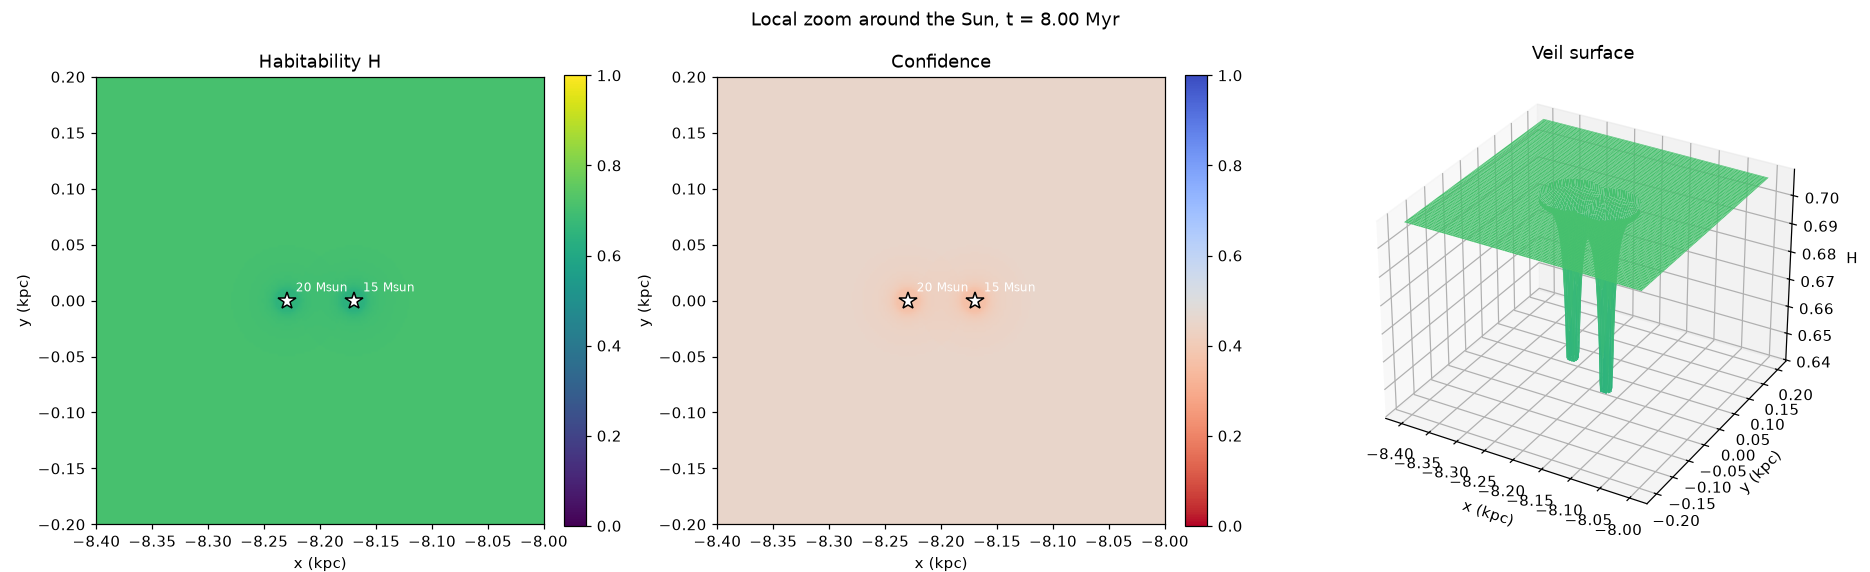
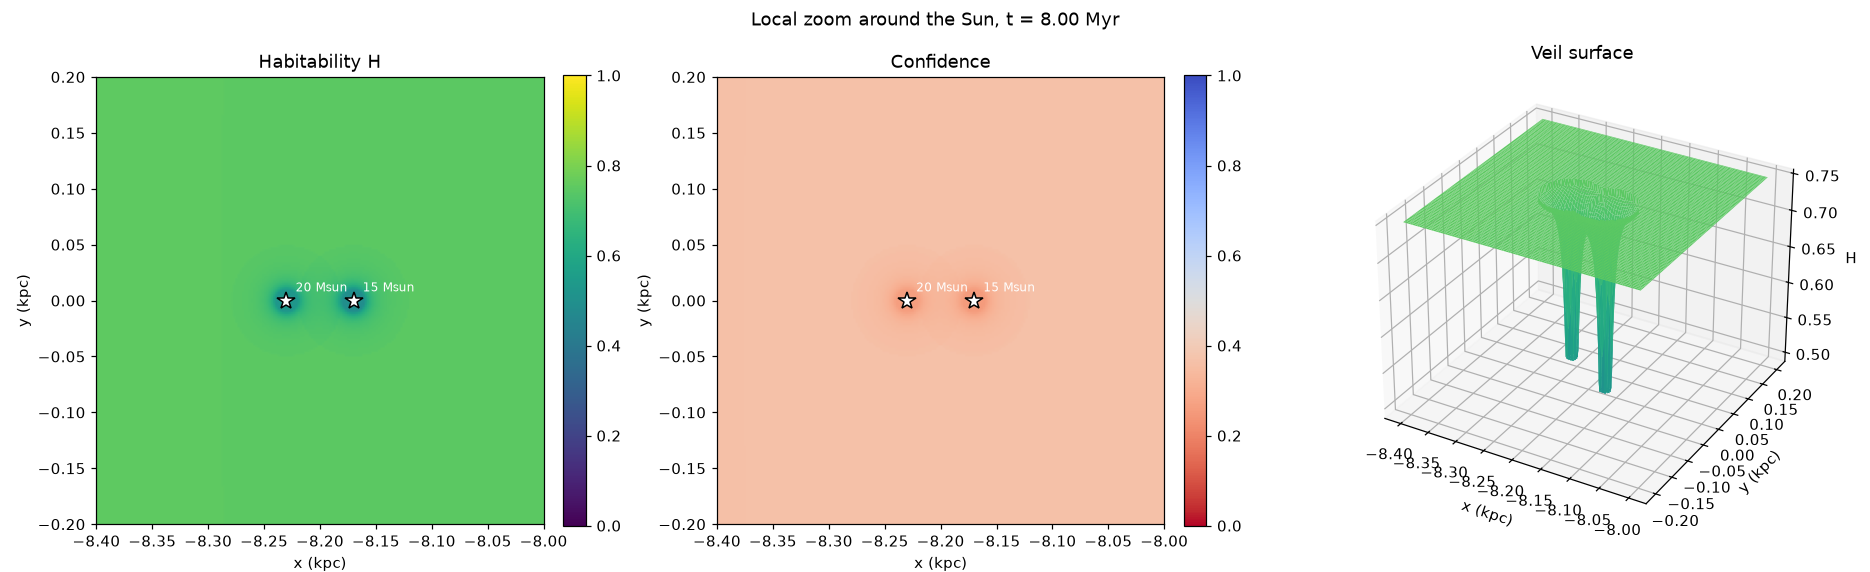
Record Phase 0 completion in CHANGELOG and README
Refresh the README screenshots with calibrated values, document
--project-hazards and per-field provenance, restate the known limits,
and add the Phase 0 engine to the changelog (still Unreleased pending the
versioning decision).

diff --git a/README.md b/README.md
@@ -57,7 +57,7 @@ The repository is organized as layers that build on one another:
 
 The project is in active design, **fully specified ahead of implementation** — the model, data schema, equation set, and build plan exist before the first line of engine code, by intent.
 
-- **Phase 0 — Prove the model.** Python proof-of-concept: the field math, the coordinate pipeline, and a first time-evolving hazard. *(Built — see [Running Phase 0](#running-phase-0); tuning in progress.)*
+- **Phase 0 — Prove the model.** Python proof-of-concept: the field math, the coordinate pipeline, and a first time-evolving hazard. *(Built and calibrated — see [Running Phase 0](#running-phase-0).)*
 - **Phase 1 — Interactive 3D.** A real rotatable, zoomable, clickable browser application.
 - **Phase 2 — The fourth dimension.** A fully populated galaxy you can scrub through time.
 - **Phase 3 — Real data & honest provenance.** Survey data at scale, with observed-vs-modeled shading.
@@ -73,12 +73,13 @@ Requires Python 3.11+.
 python -m venv .venv && source .venv/bin/activate
 pip install -r requirements.txt && pip install -e '.[dev,phase0]'
 python src/main.py          # or: python -m veil   (--help for options)
+python src/main.py --project-hazards   # local view with every nearby hazard projected onto the plane
 pytest                      # unit + Phase 0 acceptance tests
 ```
 
 The first run downloads the HYG v4.1 star catalog and the NASA Exoplanet Archive table into `data/raw/` (with retrieval dates in `data/raw/retrieved.json`). Output goes to `output/phase0/`: `veil.html`, a self-contained interactive page with a rotatable veil, hoverable entities and a time slider, plus static PNGs for quick validation.
 
-**Height is habitability H; color is confidence** (blue = established, purple = mixed, red = speculative). The galactic view shows the favorable annulus carved by the metallicity band against the inner density and core penalties:
+**Height is habitability H; color is confidence** (blue = established, purple = mixed, red = speculative). Every value in the entity table carries its own provenance tier and confidence (ADR-011), shown in the hover text. The galactic view shows the favorable annulus carved by the metallicity band against the inner density and core penalties — H ≈ 0.2 at the core, peaking ≈ 0.75 at the Sun's radius, ≈ 0.4 at the edge (calibration targets, ADR-013):
 
 ![Galactic-scale veil](docs/phase0/galactic.png)
 
@@ -100,7 +101,7 @@ What each module does:
 | `data/curated/phase0_hazard_stars.csv` | Hand-entered masses and **scenario** collapse times for 18 nearby massive stars (speculative, low confidence) |
 | `scripts/phase0_static.py` | Static renders of the synthetic two-star demo in `configs/phase0-local.toml` |
 
-**Known Phase 0 limits.** The metallicity→habitability curve is a placeholder (EQ-CHEM-3); factor magnitudes are untuned starting values; massive-star collapse times are a scenario, not a prediction; the local view is a slice through the Sun's plane, so hazards more than ~50 pc off it leave no dip there.
+**Known Phase 0 limits.** The metallicity→habitability curve is a placeholder (EQ-CHEM-3), so the solar peak is partly built in; factor magnitudes are calibrated to explicit, reviewable targets (ADR-013 and `scripts/calibrate_phase0.py`), which are legibility judgments rather than measurements; massive-star collapse times are a scenario, not a prediction; by default the local view is a true slice through the Sun's plane, so hazards more than ~50 pc off it leave no dip there — `--project-hazards` shows them all, at the cost of overstating their reach (ADR-014).
 
 ## Getting involved
 

diff --git a/project/meta-docs/CHANGELOG.md b/project/meta-docs/CHANGELOG.md
@@ -4,7 +4,21 @@ All notable changes to this project are recorded here. Format loosely follows *K
 
 ## [Unreleased] — Design phase
 
-### Added
+### Added — Phase 0 engine
+
+- **Fields library (`src/fields/`):** kernels × distance metrics → spatial profiles; `SourceField` / `CompositeField`; time profiles (static, ramp–spike–decay with the EQ-STAR-1 clock); `Factor` (sign × backing × magnitude × f × g); `LogOddsField`, producing habitability H and the EQ-CORE-4 confidence channel in one pass; galactic and local grids; TOML configs with FATAL/CORRECTABLE validation; matplotlib static rendering.
+- **Phase 0 pipeline (`src/veil/`, `python src/main.py`):** fetches HYG v4.1 and the NASA Exoplanet Archive with recorded retrieval dates; transforms to galactocentric coordinates with the Sun pinned at R₀ = 8.2 kpc; ingests ~120k entities; builds one supernova factor per curated massive star; writes a self-contained interactive Plotly page with entity hover and a time slider.
+- **Graded per-field provenance (ADR-011):** every physical value carries `F__tier` / `F__conf` from its source field map, defaulting to Speculative/0.10; `entity.md` updated and `is_speculative` marked superseded.
+- **Calibration (ADR-013):** baseline and magnitudes fitted to explicit targets, with a reproducible fit script and tests.
+- **Hazard geometry (ADR-014):** true 3D slice by default; `--project-hazards` opt-in projection.
+- **Tests:** 121, including the Phase 0 §6.11 acceptance checks and the calibration targets.
+
+### Fixed
+
+- Config validation overwrote every factor's `distance.angle_rad` with 0.0.
+- The local view auto-played on load, opening part-way through time.
+
+### Added — Design
 
 - **Project identity:** named "The Drake Display"; README and Discussions intro authored.
 - **Research library:** documents on cosmology mysteries, physics mysteries, the Drake equation, the Fermi paradox, the Kardashev scale, DNA & bio-information limits, a stellar compendium, stellar energy & life, galactic hazard distribution, and galactic chemical evolution — each following the seven-section research template with cited sources.
@@ -17,9 +31,7 @@ All notable changes to this project are recorded here. Format loosely follows *K
 
 ### Pending (see `TODO.md`)
 
-- Factor specification (`factors.md`) and the entity-effects matrix.
-- Parameters/constants table and the observable→equation→certainty derivation map.
-- Maintainer contact, versioning scheme, issue/PR templates.
+- Versioning scheme and first-release definition; issue/PR templates.
 - Resolution of the Missing/Partial equations catalogued in `equations.md`.
 
 ---
